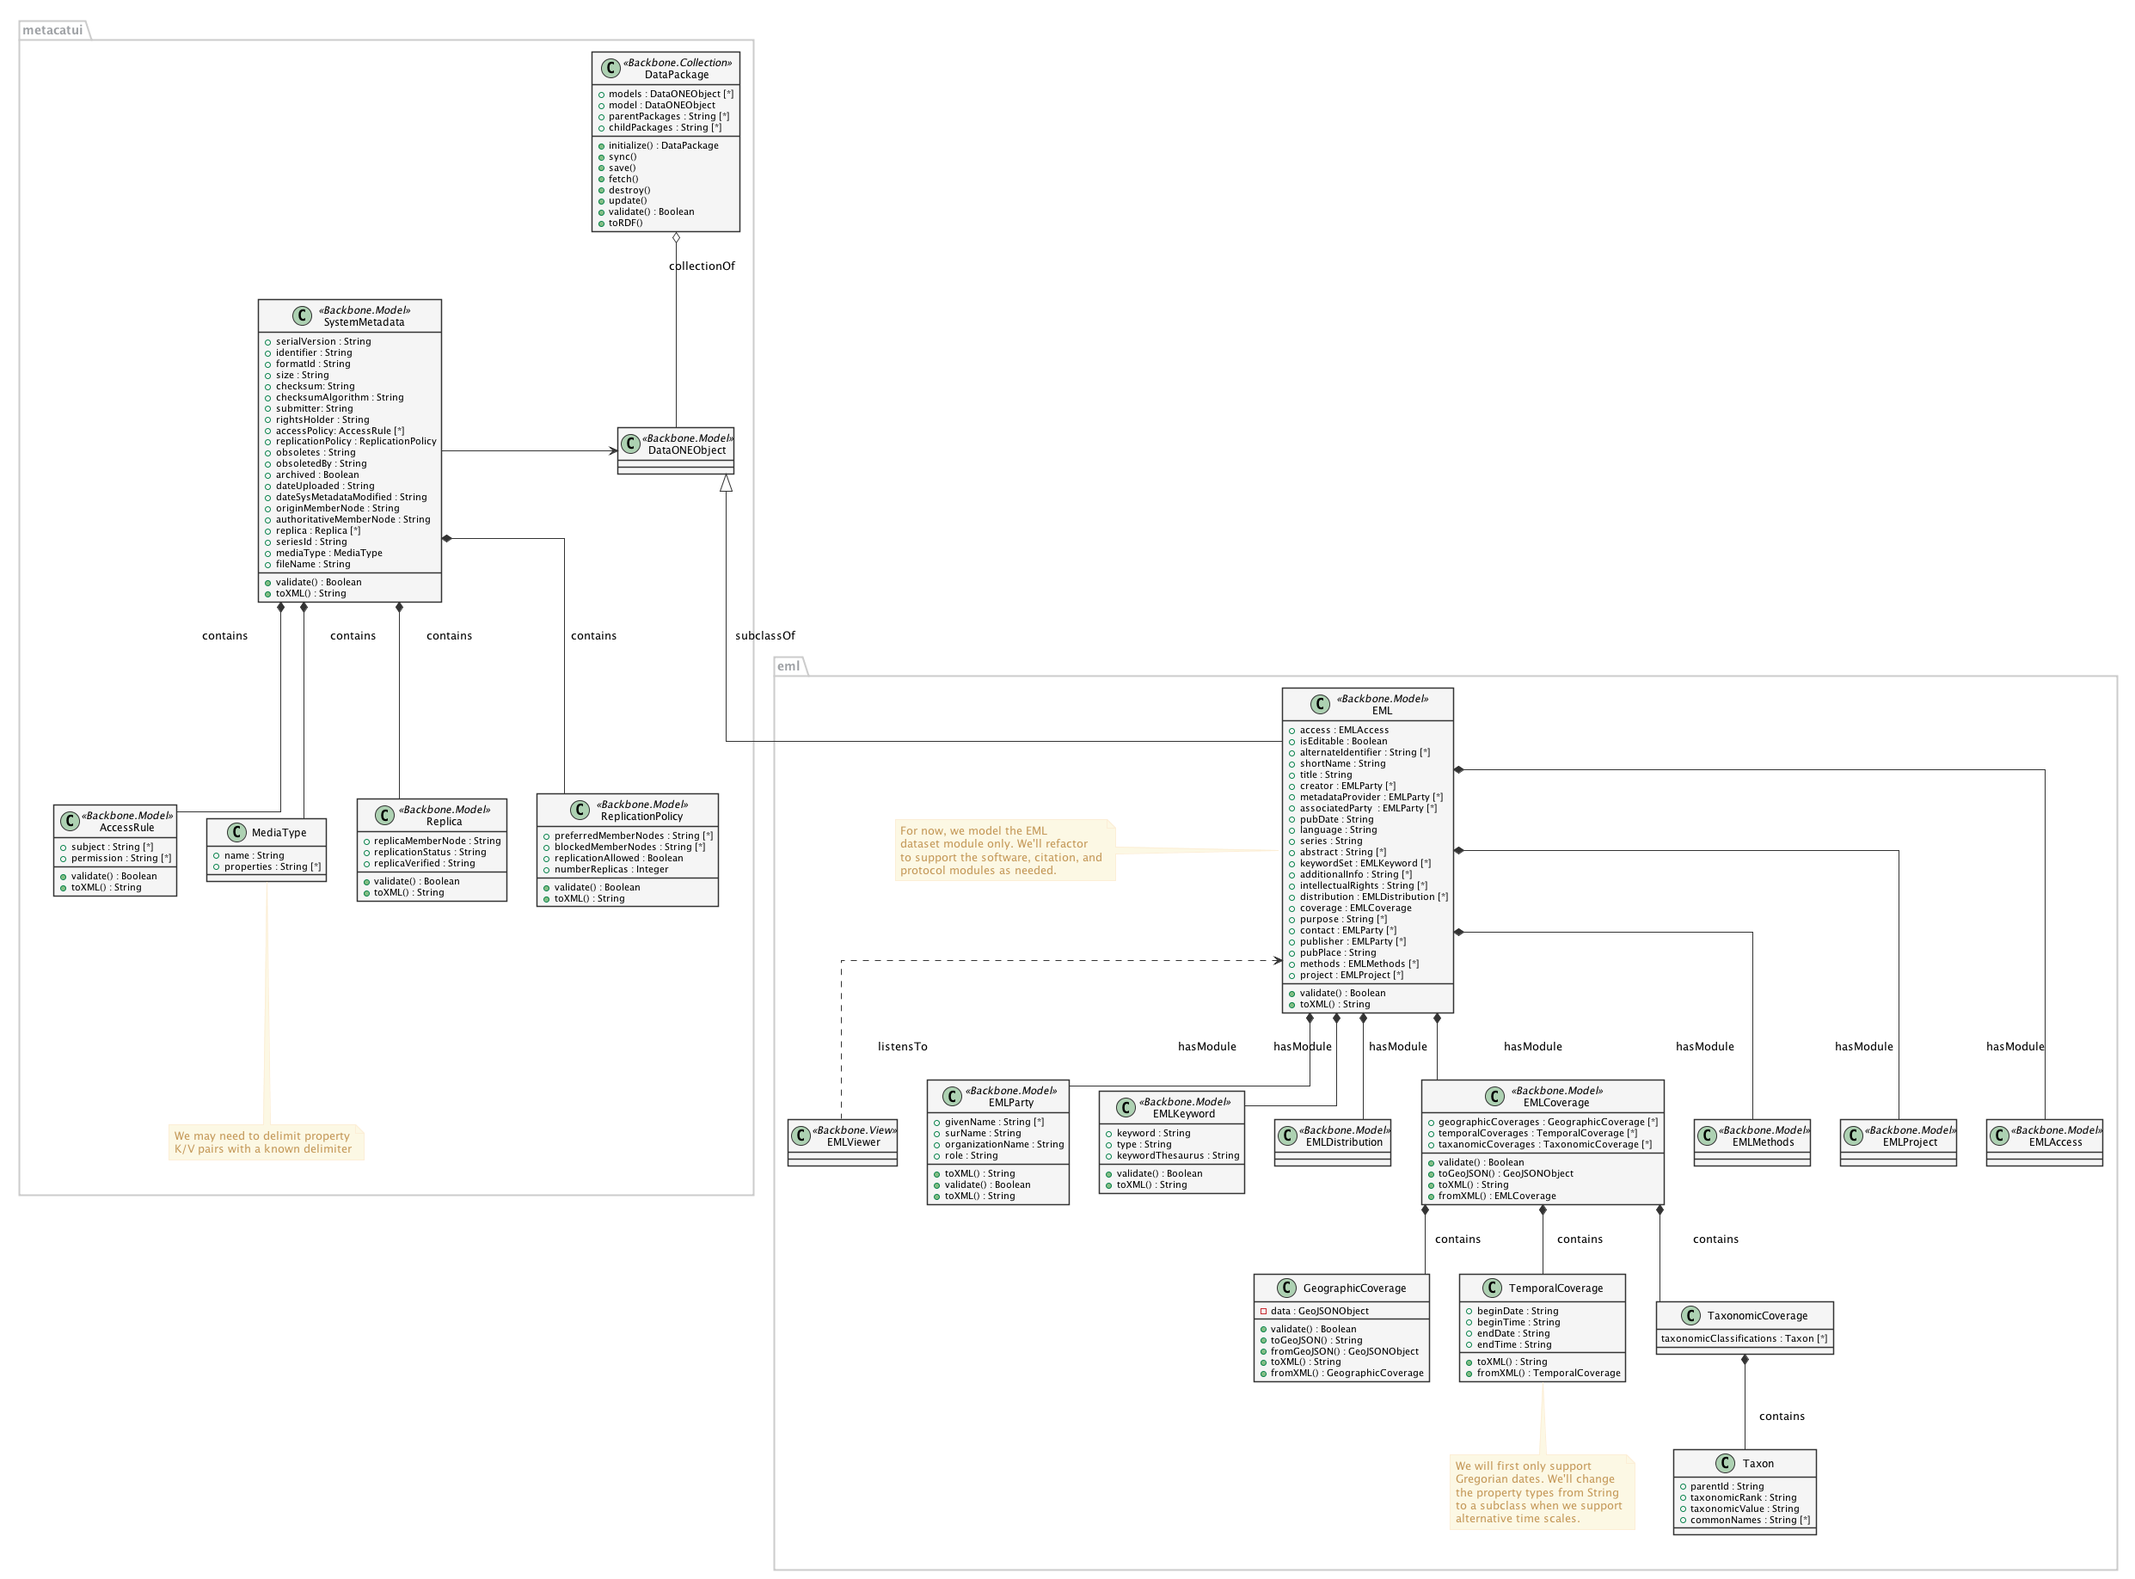
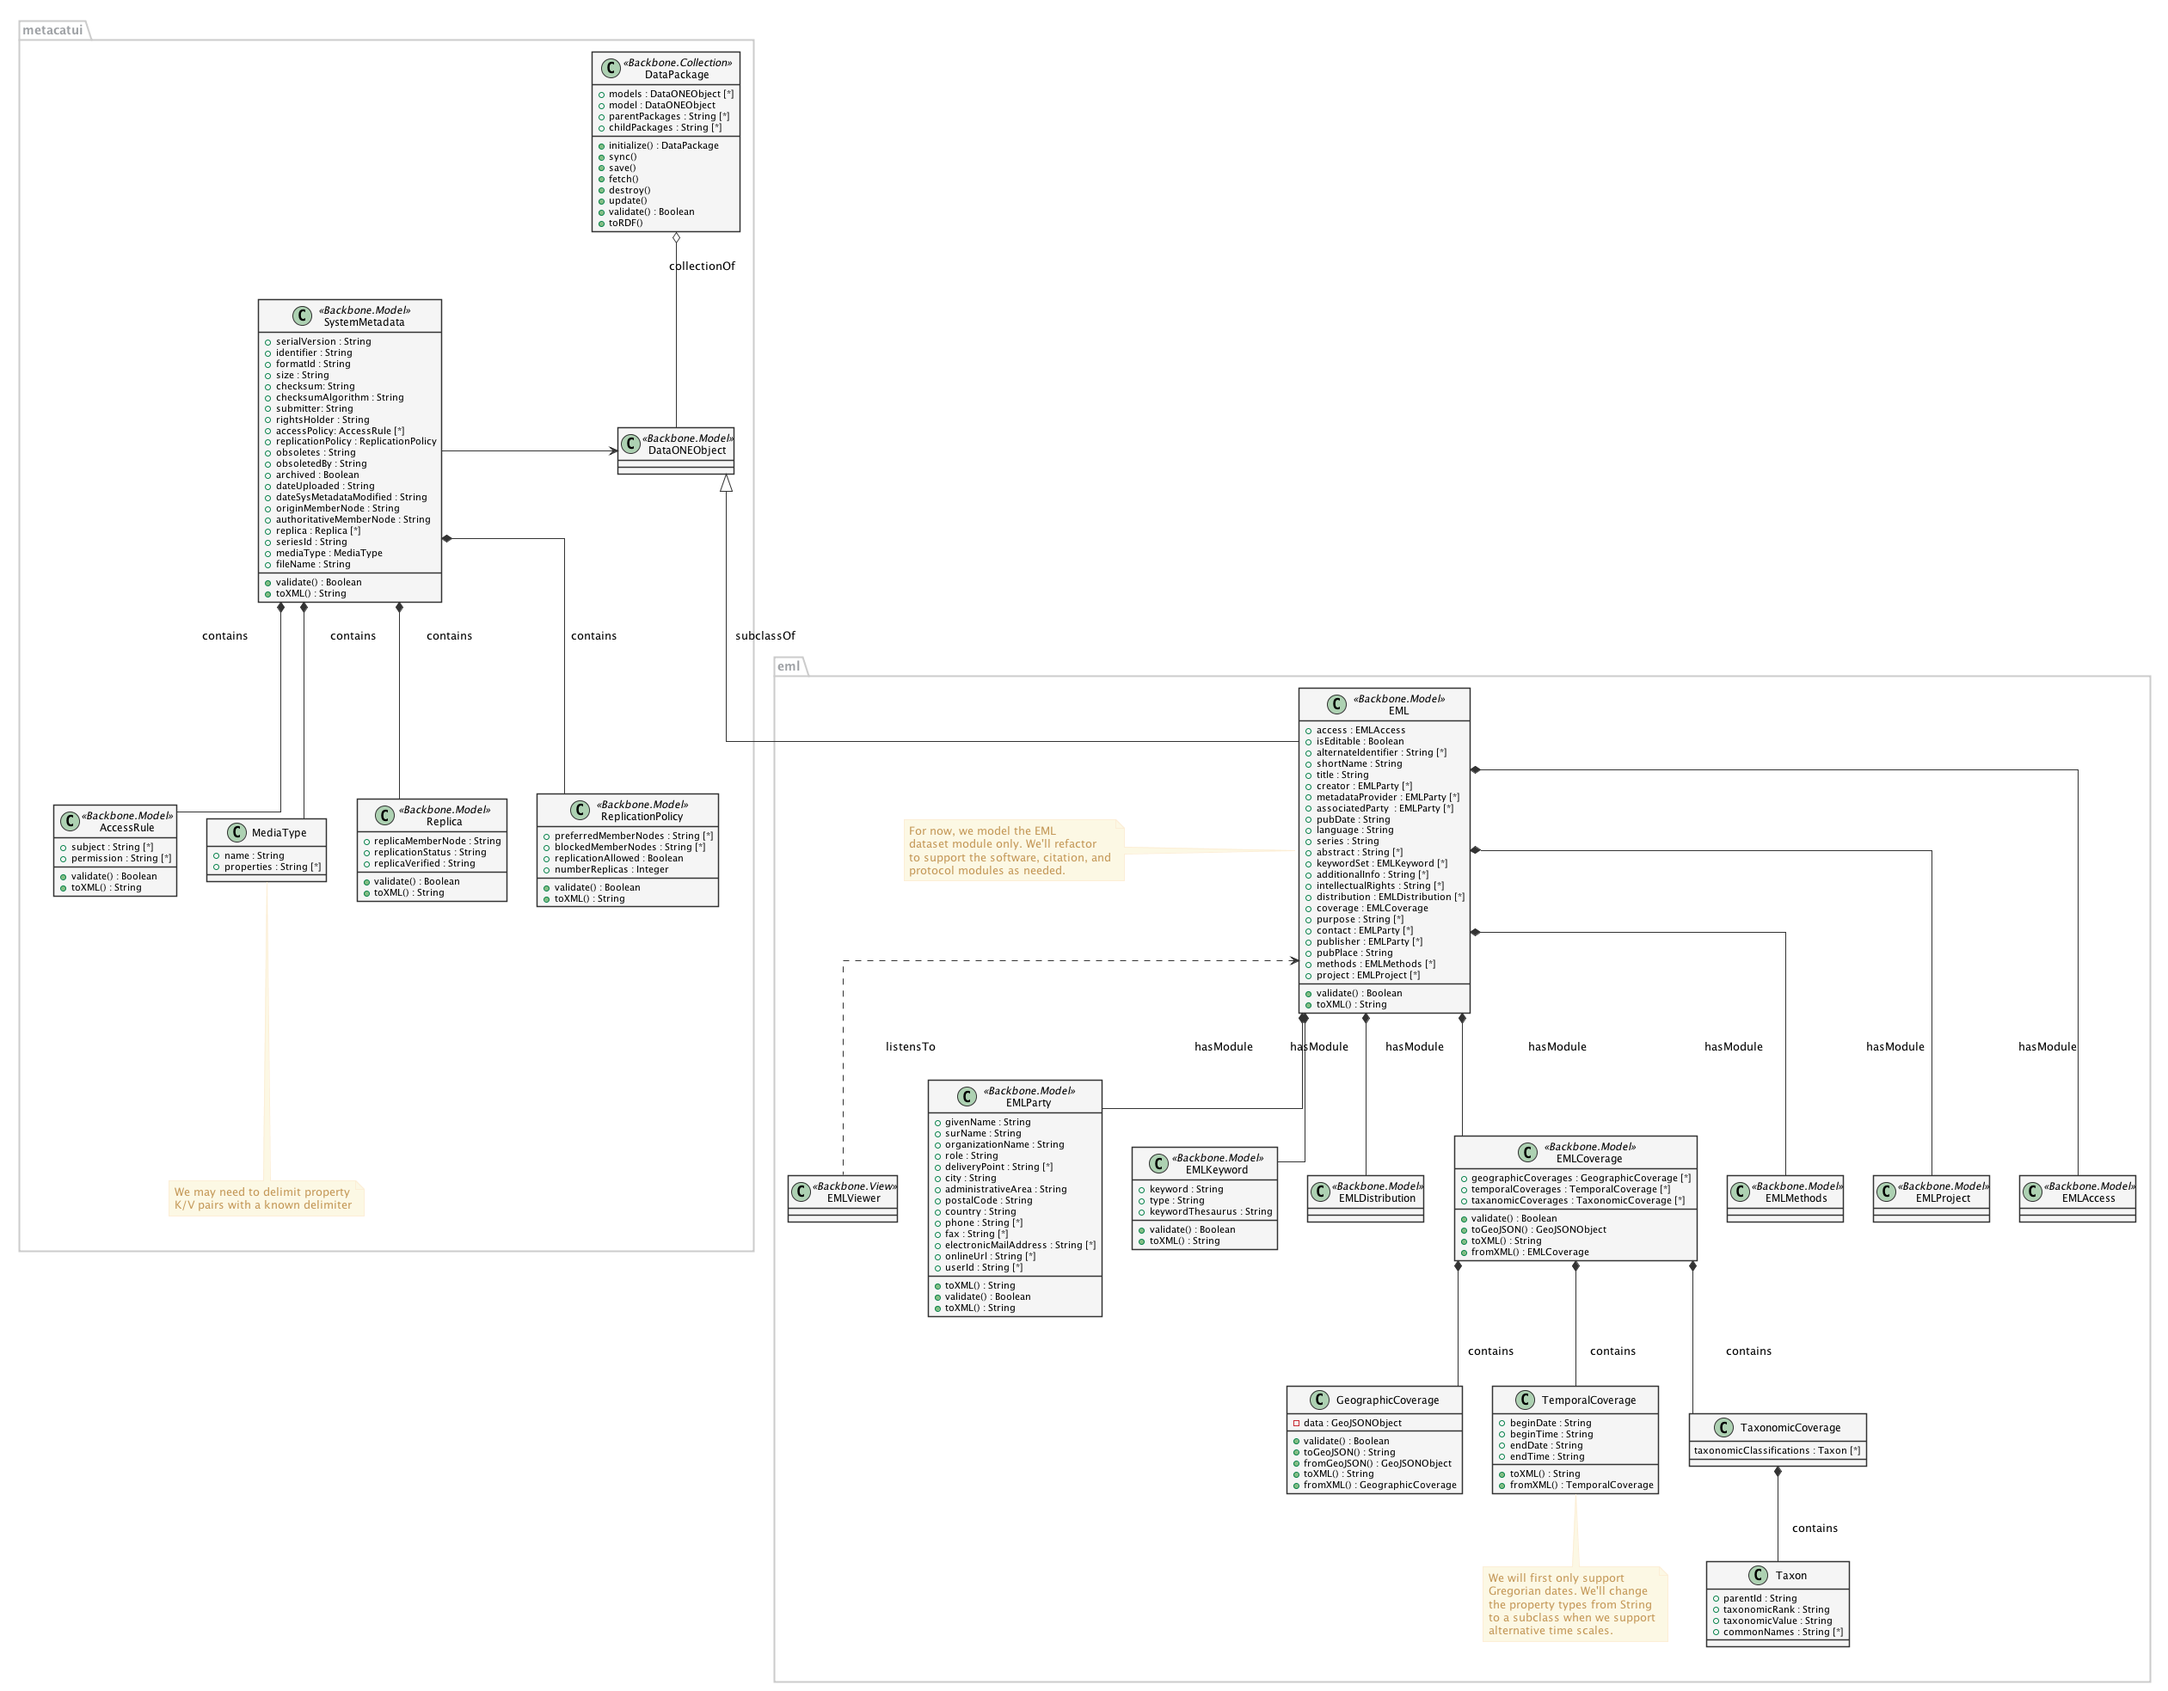
Flesh out the EMLParty class. Instead of adding individualName and address subclasses, we first will only support a single individualName and single address per party.

diff --git a/metacatui/docs/design/editor/editor-class-diagram.rst b/metacatui/docs/design/editor/editor-class-diagram.rst
@@ -155,10 +155,20 @@ Class Diagram
        }
        
        class EMLParty <<Backbone.Model>> {
-         + givenName : String [*]
+         + givenName : String
          + surName : String
          + organizationName : String
          + role : String
+         + deliveryPoint : String [*]
+         + city : String
+         + administrativeArea : String
+         + postalCode : String
+         + country : String
+         + phone : String [*]
+         + fax : String [*]
+         + electronicMailAddress : String [*]
+         + onlineUrl : String [*]
+         + userId : String [*]
          + toXML() : String
          + validate() : Boolean
          + toXML() : String
